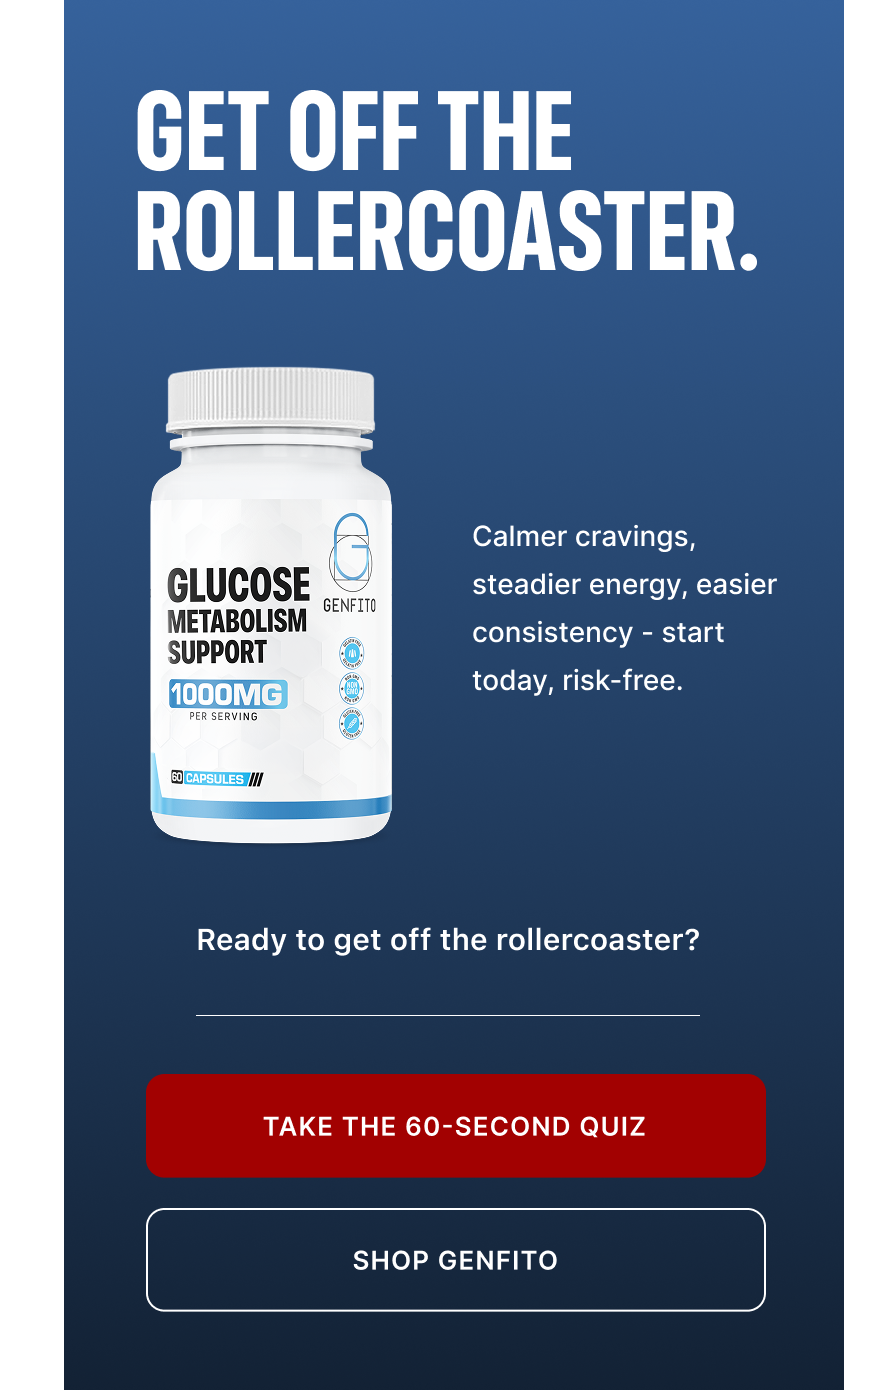
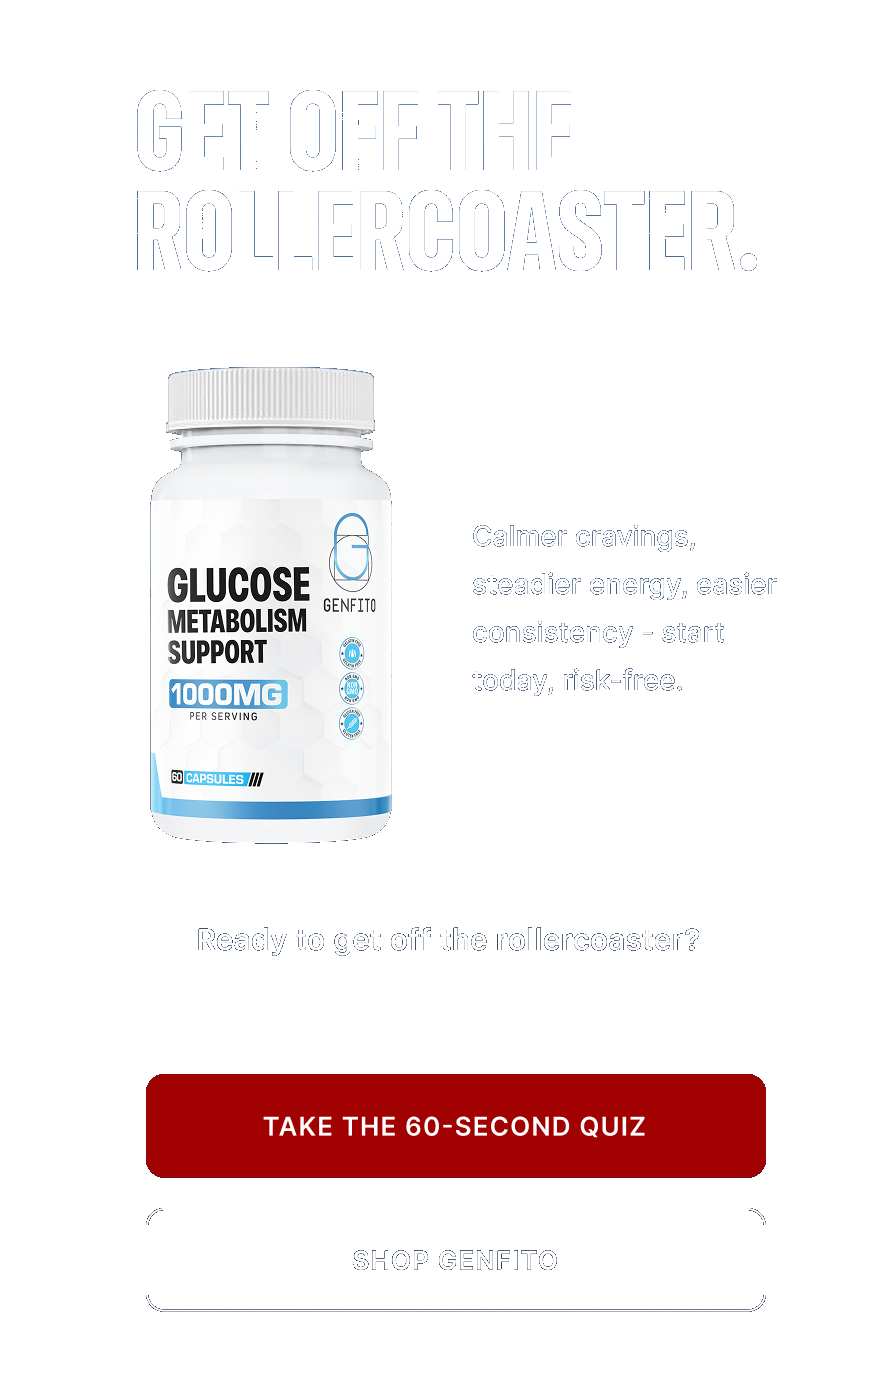
fix: final CTA mobile — transparent PNG + CSS gradient section, precise button overlays

diff --git a/index.html b/index.html
@@ -760,21 +760,24 @@
       /* Show mobile final-CTA section, hide desktop image */
       .final-cta-desktop-img { display: none; }
       .final-cta-mobile { display: block; }
-      /* Final CTA mobile: image-based layout, full-bleed */
-      /* Match section bg to top of Figma image so transparent corners are invisible */
-      #final-cta { padding: 0; background: #35619b; }
+      /* Final CTA mobile: transparent image over gradient section */
+      #final-cta { padding: 0; background: linear-gradient(180deg, #36629B 0%, #132235 100%); }
       .final-cta-img-wrap { position: relative; display: block; line-height: 0; }
       .final-cta-img { width: 100%; height: auto; display: block; }
+      /* Overlays measured from image pixel analysis:
+         Red quiz button:   top 77.3%, bottom 84.6% (from top) -> bottom 15.4%, height 7.3%
+         White shop button: top 86.9%, bottom 94.2% (from top) -> bottom 5.8%, height 7.3%
+         Horizontal: left 16.7%, right 12.5% (from right) */
       .fcta-overlay-quiz {
         position: absolute;
-        left: 9%; right: 9%;
-        bottom: 22%; height: 9%;
+        left: 16%; right: 12%;
+        bottom: 15.4%; height: 7.3%;
         display: block;
       }
       .fcta-overlay-shop {
         position: absolute;
-        left: 9%; right: 9%;
-        bottom: 11%; height: 9%;
+        left: 16%; right: 12%;
+        bottom: 5.8%; height: 7.3%;
         display: block;
       }
       /* Hide the bottom "Start with Genfito" CTA button on mobile */